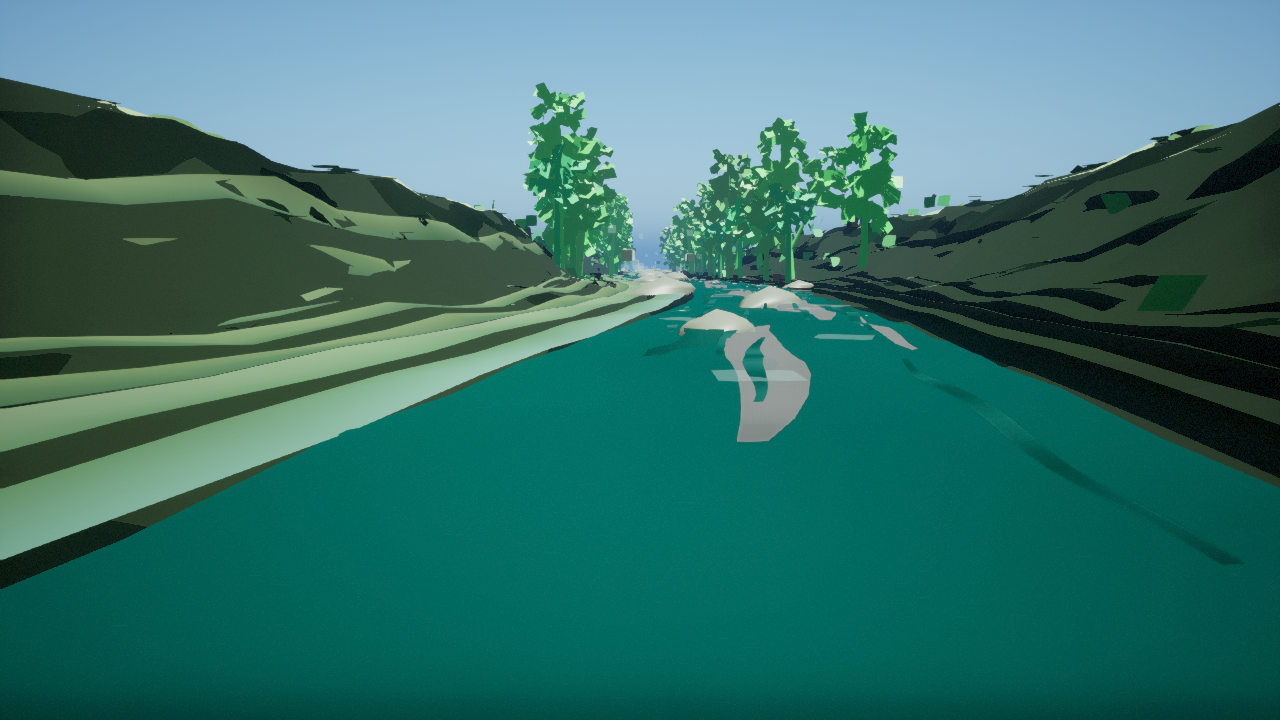
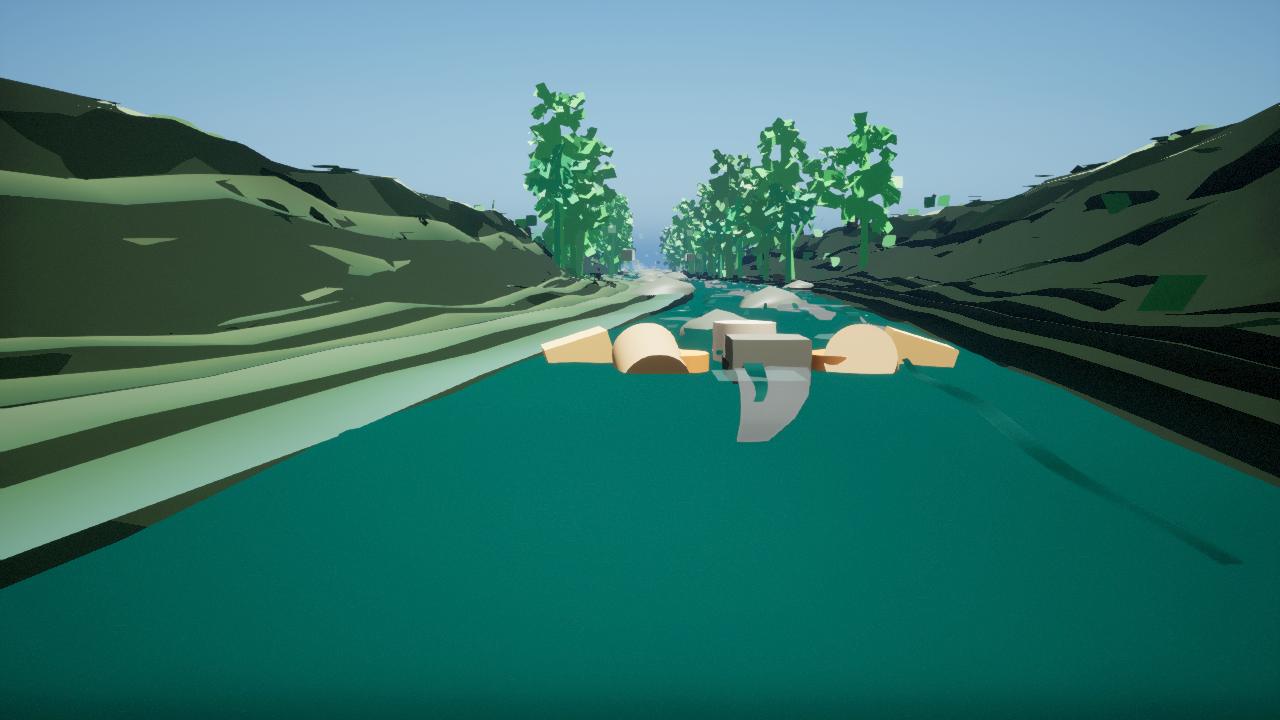
Add guide-seat raft foreground previews

Changed region(s): [[0.4062, 0.4278, 0.75, 0.5194]]

diff --git a/unreal/Plugins/RaftSim/Source/RaftSimEditor/Private/RaftSimEditorModule.cpp b/unreal/Plugins/RaftSim/Source/RaftSimEditor/Private/RaftSimEditorModule.cpp
@@ -287,7 +287,7 @@ TArray<FRaftSimEnvironmentPreviewSpec> GetEnvironmentPreviewSpecs()
     SouthFork.ElevationSample =
         TEXT("physics/data/real_world/south_fork_american_chili_bar/terrain/production_import_pilot/3dep_tiles");
     SouthFork.SourceDrapeDescription =
-        TEXT("stitched South Fork production-import pilot source drape generated from four official USDA/APFO NAIP 2048px tiles, plus stitched USGS 3DEP pilot DEM relief and a review-gated 2017px heightfield candidate sampled into bank and valley preview geometry; pilot source water/vegetation masks are sampled into terrain color, source-aware bank breakup patches, biome-specific deadfall/log/grass/root ecology props, first-party biome foliage silhouette cards, lit water variation, flow-band depth texture ribbons, flow-aware surface chop/turbidity patches, deterministic wet-rock, talus, foliage, understory, mask-aware ground-cover cards, and river-specific atmospheric backdrop cards; all pilot derivatives remain review-gated until metadata review, mosaic/clip, hydrologic conditioning, channel burning, masks, and guide/geospatial approval pass; rocks, foliage, water, foam, raft, and lighting still include first-party procedural proxy layers");
+        TEXT("stitched South Fork production-import pilot source drape generated from four official USDA/APFO NAIP 2048px tiles, plus stitched USGS 3DEP pilot DEM relief and a review-gated 2017px heightfield candidate sampled into bank and valley preview geometry; pilot source water/vegetation masks are sampled into terrain color, source-aware bank breakup patches, biome-specific deadfall/log/grass/root ecology props, first-party biome foliage silhouette cards, lit water variation, flow-band depth texture ribbons, flow-aware surface chop/turbidity patches, deterministic wet-rock, talus, foliage, understory, mask-aware ground-cover cards, guide-seat raft/oar foreground proxies, and river-specific atmospheric backdrop cards; all pilot derivatives remain review-gated until metadata review, mosaic/clip, hydrologic conditioning, channel burning, masks, and guide/geospatial approval pass; rocks, foliage, water, foam, raft, and lighting still include first-party procedural proxy layers");
     SouthFork.FlowBandId = TEXT("median_runnable");
     SouthFork.FlowBandDisplayName = TEXT("Median Runnable / Summer Commercial");
     SouthFork.FlowBandSource = TEXT("physics/data/real_world/south_fork_american_chili_bar/flow_presets.json");
@@ -327,7 +327,7 @@ TArray<FRaftSimEnvironmentPreviewSpec> GetEnvironmentPreviewSpecs()
     Colorado.ElevationSample =
         TEXT("physics/data/real_world/colorado_river_grand_canyon_rowing/terrain/production_import_pilot/3dep_tiles");
     Colorado.SourceDrapeDescription =
-        TEXT("stitched Colorado/Lees Ferry production-import pilot source drape generated from four official USDA/APFO NAIP 2048px tiles, plus stitched USGS 3DEP pilot DEM relief and a review-gated 2017px heightfield candidate sampled into canyon bank preview geometry; pilot source water/vegetation masks are sampled into terrain color, source-aware bank breakup patches, biome-specific sparse deadfall/grass/root ecology props, first-party sparse desert scrub silhouettes, lit water variation, flow-band depth texture ribbons, flow-aware surface chop/turbidity patches, deterministic wet-rock, talus, sparse scrub, boulder placement, mask-aware canyon ground-cover cards, and river-specific atmospheric backdrop cards; all pilot derivatives remain review-gated until metadata review, mosaic/clip, river-mile stationing, hydrologic conditioning, release-aware masks, and guide/oarsman approval pass; rocks, foliage, water, foam, raft, and lighting still include first-party procedural proxy layers");
+        TEXT("stitched Colorado/Lees Ferry production-import pilot source drape generated from four official USDA/APFO NAIP 2048px tiles, plus stitched USGS 3DEP pilot DEM relief and a review-gated 2017px heightfield candidate sampled into canyon bank preview geometry; pilot source water/vegetation masks are sampled into terrain color, source-aware bank breakup patches, biome-specific sparse deadfall/grass/root ecology props, first-party sparse desert scrub silhouettes, lit water variation, flow-band depth texture ribbons, flow-aware surface chop/turbidity patches, deterministic wet-rock, talus, sparse scrub, boulder placement, mask-aware canyon ground-cover cards, guide-seat raft/oar foreground proxies, and river-specific atmospheric backdrop cards; all pilot derivatives remain review-gated until metadata review, mosaic/clip, river-mile stationing, hydrologic conditioning, release-aware masks, and guide/oarsman approval pass; rocks, foliage, water, foam, raft, and lighting still include first-party procedural proxy layers");
     Colorado.FlowBandId = TEXT("moderate_release_planning");
     Colorado.FlowBandDisplayName = TEXT("Moderate Release Planning");
     Colorado.FlowBandSource = TEXT("physics/data/real_world/colorado_river_grand_canyon_rowing/flow_presets.json");
@@ -373,7 +373,7 @@ TArray<FRaftSimEnvironmentPreviewSpec> GetEnvironmentPreviewSpecs()
     Pacuare.ElevationSample =
         TEXT("physics/data/real_world/pacuare_river_costa_rica/terrain/copernicus_dem_glo30_N09_W084.tif; physics/data/real_world/pacuare_river_costa_rica/terrain/copernicus_dem_glo30_N10_W084.tif");
     Pacuare.SourceDrapeDescription =
-        TEXT("review-gated Pacuare production-import derivative placeholders generated from the selected NASA GIBS MODIS/Terra true-color seed and Copernicus DEM GLO-30 relief, normalized into a 4096px source drape, 2048px DEM relief, 2017px heightfield candidate, and 2048px water/vegetation masks; these remain coarse/cloudy proxy inputs until higher-resolution cloud-screened imagery, local hydrology/hydrography, protected-area review, and guide/outfitter validation are attached; first-party procedural rainforest leaf-litter, wet-rock, talus, mist, source-aware bank breakup patches, biome-specific deadfall/log/grass/root ecology props, rainforest canopy/vine silhouette cards, waterfall curtain/plunge-mist proxy layers, lit water variation, flow-band depth texture ribbons, flow-aware surface chop/turbidity patches, dense mask-aware ground-cover/canopy cards, and humid atmospheric backdrop cards remain rights-safe proxy dressing; rocks, foliage, water, foam, raft, and lighting still include first-party procedural proxy layers");
+        TEXT("review-gated Pacuare production-import derivative placeholders generated from the selected NASA GIBS MODIS/Terra true-color seed and Copernicus DEM GLO-30 relief, normalized into a 4096px source drape, 2048px DEM relief, 2017px heightfield candidate, and 2048px water/vegetation masks; these remain coarse/cloudy proxy inputs until higher-resolution cloud-screened imagery, local hydrology/hydrography, protected-area review, and guide/outfitter validation are attached; first-party procedural rainforest leaf-litter, wet-rock, talus, mist, source-aware bank breakup patches, biome-specific deadfall/log/grass/root ecology props, rainforest canopy/vine silhouette cards, waterfall curtain/plunge-mist proxy layers, lit water variation, flow-band depth texture ribbons, flow-aware surface chop/turbidity patches, dense mask-aware ground-cover/canopy cards, guide-seat raft/oar foreground proxies, and humid atmospheric backdrop cards remain rights-safe proxy dressing; rocks, foliage, water, foam, raft, and lighting still include first-party procedural proxy layers");
     Pacuare.FlowBandId = TEXT("rainfed_runnable_planning");
     Pacuare.FlowBandDisplayName = TEXT("Rain-Fed Runnable Planning");
     Pacuare.FlowBandSource = TEXT("physics/data/real_world/pacuare_river_costa_rica/flow_presets.json");
@@ -3211,37 +3211,80 @@ void AddPreviewRaftForeground(UWorld* World, const FRaftSimEnvironmentPreviewSpe
         }
     };
 
-    const float BaseX = -4920.0f;
+    const float BaseX = -4100.0f;
     const float CenterY = GetPreviewRiverCenterY(Spec, BaseX);
-    const float Z = 30.0f;
+    const float Z = -10.0f;
+    const FLinearColor TubeColor = FMath::Lerp(Spec.RaftColor, FLinearColor(0.95f, 0.60f, 0.18f), 0.24f);
+    const FLinearColor TubeShadowColor = ScalePreviewColor(TubeColor, 0.62f);
+    const FLinearColor FrameColor = Spec.bDesertCanyon ? FLinearColor(0.12f, 0.095f, 0.065f) : FLinearColor(0.065f, 0.075f, 0.058f);
+    const FLinearColor OarShaftColor = Spec.bDesertCanyon ? FLinearColor(0.44f, 0.31f, 0.16f) : FLinearColor(0.50f, 0.33f, 0.17f);
+    const FLinearColor OarBladeColor = Spec.bDesertCanyon ? FLinearColor(0.76f, 0.68f, 0.47f) : FLinearColor(0.86f, 0.52f, 0.22f);
+    const FLinearColor BowLineColor = FMath::Lerp(FLinearColor(0.78f, 0.72f, 0.58f), TubeColor, 0.18f);
+
     AddRaftProxyPart(
         CylinderMesh,
         FString::Printf(TEXT("RaftSim_ForegroundRaft_LeftTube_%s"), *Spec.RiverId),
-        FVector(BaseX + 180.0f, CenterY - 92.0f, Z),
+        FVector(BaseX + 40.0f, CenterY - 118.0f, Z),
         FRotator(0.0f, 90.0f, 0.0f),
-        FVector(0.38f, 0.38f, 2.9f),
-        Spec.RaftColor);
+        FVector(0.20f, 0.20f, 1.62f),
+        TubeColor);
     AddRaftProxyPart(
         CylinderMesh,
         FString::Printf(TEXT("RaftSim_ForegroundRaft_RightTube_%s"), *Spec.RiverId),
-        FVector(BaseX + 180.0f, CenterY + 92.0f, Z),
+        FVector(BaseX + 40.0f, CenterY + 118.0f, Z),
         FRotator(0.0f, 90.0f, 0.0f),
-        FVector(0.38f, 0.38f, 2.9f),
-        Spec.RaftColor);
+        FVector(0.20f, 0.20f, 1.62f),
+        TubeShadowColor);
     AddRaftProxyPart(
         CylinderMesh,
         FString::Printf(TEXT("RaftSim_ForegroundRaft_Bow_%s"), *Spec.RiverId),
-        FVector(BaseX + 470.0f, CenterY, Z + 3.0f),
+        FVector(BaseX + 235.0f, CenterY, Z + 2.0f),
         FRotator(90.0f, 0.0f, 0.0f),
-        FVector(0.36f, 0.36f, 1.9f),
-        Spec.RaftColor);
+        FVector(0.18f, 0.18f, 1.38f),
+        TubeColor);
     AddRaftProxyPart(
         CubeMesh,
         FString::Printf(TEXT("RaftSim_ForegroundRaft_Floor_%s"), *Spec.RiverId),
-        FVector(BaseX + 92.0f, CenterY, 11.0f),
+        FVector(BaseX - 18.0f, CenterY, -12.0f),
         FRotator::ZeroRotator,
-        FVector(1.35f, 0.42f, 0.04f),
-        FLinearColor(0.08f, 0.085f, 0.075f));
+        FVector(0.66f, 0.36f, 0.022f),
+        FrameColor);
+    AddRaftProxyPart(
+        CubeMesh,
+        FString::Printf(TEXT("RaftSim_ForegroundRaft_FrameBar_%s"), *Spec.RiverId),
+        FVector(BaseX - 62.0f, CenterY, 22.0f),
+        FRotator::ZeroRotator,
+        FVector(0.045f, 0.84f, 0.018f),
+        FLinearColor(0.18f, 0.18f, 0.15f));
+
+    const float OarLengthScale = Spec.bDesertCanyon ? 2.05f : 1.78f;
+    const float OarBladeOffset = Spec.bDesertCanyon ? 300.0f : 260.0f;
+    for (int32 OarIndex = 0; OarIndex < 2; ++OarIndex)
+    {
+        const float Side = (OarIndex == 0) ? -1.0f : 1.0f;
+        AddRaftProxyPart(
+            CylinderMesh,
+            FString::Printf(TEXT("RaftSim_ForegroundRaft_OarShaft_%d_%s"), OarIndex, *Spec.RiverId),
+            FVector(BaseX + 28.0f, CenterY + Side * 154.0f, 18.0f + 2.0f * static_cast<float>(OarIndex)),
+            FRotator(Side > 0.0f ? 2.5f : -2.5f, 94.0f + Side * 15.0f, Side * 68.0f),
+            FVector(0.023f, 0.023f, OarLengthScale),
+            OarShaftColor);
+        AddRaftProxyPart(
+            CubeMesh,
+            FString::Printf(TEXT("RaftSim_ForegroundRaft_OarBlade_%d_%s"), OarIndex, *Spec.RiverId),
+            FVector(BaseX + 138.0f, CenterY + Side * OarBladeOffset, 6.0f),
+            FRotator(0.0f, 10.0f * Side, Side > 0.0f ? 17.0f : -17.0f),
+            FVector(0.12f, 0.30f, 0.014f),
+            OarBladeColor);
+    }
+
+    AddRaftProxyPart(
+        CylinderMesh,
+        FString::Printf(TEXT("RaftSim_ForegroundRaft_BowLine_%s"), *Spec.RiverId),
+        FVector(BaseX + 172.0f, CenterY, 26.0f),
+        FRotator(0.0f, 90.0f, 0.0f),
+        FVector(0.012f, 0.012f, 0.82f),
+        BowLineColor);
 }
 
 void AddPreviewLightRig(UWorld* World, const FRaftSimEnvironmentPreviewSpec& Spec)
@@ -3828,6 +3871,7 @@ bool BuildPreviewMapForSpec(const FRaftSimEnvironmentPreviewSpec& Spec, FString&
         }
     }
 
+    AddPreviewRaftForeground(World, Spec, CubeMesh, CylinderMesh);
     AddPreviewCameraAndStart(World, Spec);
     return SavePreviewWorld(World, Spec.MapPackagePath, OutSummary);
 }
@@ -4868,7 +4912,7 @@ bool FRaftSimEditorModule::CapturePhotorealEnvironmentPreviews(FString& OutSumma
             TEXT("RaftSim_GuideSeat_DownstreamCaptureCamera"),
             TEXT("guide_seat_downstream"),
             TEXT("guide-seat downstream warm-up"),
-            true,
+            false,
             OutSummary);
         const bool bGuideSeatCaptured = CapturePreviewImageForSpec(
             Spec,
@@ -4877,7 +4921,7 @@ bool FRaftSimEditorModule::CapturePhotorealEnvironmentPreviews(FString& OutSumma
             TEXT("RaftSim_GuideSeat_DownstreamCaptureCamera"),
             TEXT("guide_seat_downstream"),
             TEXT("guide-seat downstream"),
-            true,
+            false,
             OutSummary);
         const bool bRiverEyeCaptured = CapturePreviewImageForSpec(
             Spec,

diff --git a/docs/photoreal-river-environment-production-plan.md b/docs/photoreal-river-environment-production-plan.md
@@ -98,7 +98,7 @@ Initial source slice:
 - First review-gated source water/vegetation mask previews now exist for all three active drapes: South Fork and Colorado masks are derived from the 1024px USDA/APFO NAIP samples, and Pacuare masks are derived from the 1024px NASA GIBS/Copernicus source drape. The masks are sampled by Unreal terrain and source-drape coloring, but they remain deterministic preview masks until reviewed orthomosaics/satellite scenes, hydrography, bank polygons, cloud/shadow checks, and guide/geospatial approval are complete.
 - A first-party procedural detail pass now adds terrain-conforming canyon strata, rainforest/foothill leaf-litter bands, wet-rock accents, and deterministic talus/pebble bars for all three preview maps. These layers are rights-safe proxy dressing generated from code and engine primitives; they must be replaced or promoted only after production asset, material, and guide-review gates pass.
 - The Unreal preview generator now samples each active aerial/source drape directly into higher-density terrain vertex colors and softens the separate drape overlay, reducing hard rectangular patchwork in the review captures while keeping the inputs review-gated. The overlay is now further muted in the generated maps, and deterministic boulder-contact foam laces tie source-aware rocks into the current without pretending to be production whitewater simulation.
-- The river ribbon mesh keeps `M_RaftSim_VertexColorWaterPreview` active, a first-party procedural lit vertex-color water material with muted shallow/deep tinting and subtle along-flow variation. Direct reuse of installed Unreal Water/WaterAdvanced plugin materials was evaluated and rejected for this generated ProceduralMeshComponent ribbon after producing near-black downstream captures; `water_material_candidate_review.json` records that decision and keeps future WaterBody/WaterMesh integration as a separate validation task. Crude foreground raft proxies are disabled in generated preview maps and hidden in capture automation, preview cameras use fixed manual exposure, and capture automation performs a warm-up render before pixel readback so water review is not polluted by placeholder geometry, exposure shifts, or first-frame material warm-up artifacts until production raft art is ready. This improves the current preview screenshots but does not replace the future production water shader, reflections, solver-driven surface detail, spray, mist, or foam.
+- The river ribbon mesh keeps `M_RaftSim_VertexColorWaterPreview` active, a first-party procedural lit vertex-color water material with muted shallow/deep tinting and subtle along-flow variation. Direct reuse of installed Unreal Water/WaterAdvanced plugin materials was evaluated and rejected for this generated ProceduralMeshComponent ribbon after producing near-black downstream captures; `water_material_candidate_review.json` records that decision and keeps future WaterBody/WaterMesh integration as a separate validation task. The generated preview maps now include low-footprint first-party guide-seat raft and oar foreground proxies for player-view context, while river-eye captures hide those foreground actors so terrain, water, and corridor quality can still be reviewed cleanly. Preview cameras use fixed manual exposure, and capture automation performs a warm-up render before pixel readback so water review is not polluted by exposure shifts or first-frame material warm-up artifacts. This improves the current preview screenshots but does not replace the future production water shader, reflections, solver-driven surface detail, spray, mist, foam, or approved raft/oar foreground art.
 - The preview generator now adds deterministic mask-aware ground-cover and canopy-card actors along the banks for all three rivers. These source-mask-biased first-party cards add riparian, canyon scrub, and rainforest texture without importing third-party art, but they remain proxy dressing until biome-specific foliage assets, instancing budgets, and guide-reviewed sightline cutouts are complete.
 - The UE 5.8 photoreal preview automation scopes `Editor.CheckForWorldGCLeaksAreFatal=0` only around generated-map/capture batches. This prevents commandlet-style startup `Untitled` world cleanup diagnostics from crashing the run while still logging the diagnostics and restoring the editor CVar afterward.
 - `river_flow_visual_bands.json` now records the preview-only flow-band visual contract for South Fork, Colorado, and Pacuare. The active generated previews render the South Fork `median_runnable`, Colorado `moderate_release_planning`, and Pacuare `rainfed_runnable_planning` bands by adjusting river width, water level, foam scale, wet-bank width, and current-cue density; regenerated capture manifests must record the selected band and visual parameters. These are source-backed visual defaults, not solver authority or complete seasonal variant captures.

diff --git a/TODO.md b/TODO.md
@@ -949,6 +949,7 @@ This milestone turns the three runnable river targets into complete, reviewable,
 - [x] Replace rectangular preview foam marks with curved procedural foam tongues, wave highlights, and eddy-line ribbons that follow each river centerline, and compute normals on the wavy river ribbon mesh so water has more in-engine surface depth. This improves visual readability but remains placeholder VFX before production water materials, spray, mist, and foam simulation.
 - [x] Add subtle deterministic current-streak proxy ribbons to the generated Unreal river surfaces for South Fork, Colorado, and Pacuare, with refreshed guide-seat and river-eye captures. This reduces the single-flat-ribbon read slightly while keeping production water materials, reflections, spray, mist, foam, and solver-driven surface detail open.
 - [x] Add procedural vertex-color water gradients to the generated river ribbons for all three previews, backed by `M_RaftSim_VertexColorWaterPreview`, with cross-river shallow/deep tinting, subtle along-flow variation, fixed manual capture exposure, warm-up captures before pixel readback, and crude foreground raft proxies hidden/disabled for cleaner guide-seat water review until production raft art is ready. This improves the current screenshot read without replacing the future production water shader, reflections, solver-driven surface detail, foam, spray, or mist.
+- [x] Add first-party guide-seat raft and oar foreground proxies to the generated Unreal preview maps, with guide-seat captures showing a low-footprint player-view foreground and river-eye captures hiding the proxies for clean environment review. This adds reviewable gameplay context without closing the production-approved raft/oar art gate.
 - [x] Add deterministic vertex-color terrain variation and wet-bank/shoreline dressing to the generated Unreal preview maps, backed by `M_RaftSim_VertexColorPreview`, with refreshed guide-seat and river-eye captures for all three rivers. This improves source-aware bank readability, but the captures remain proxy evidence until production terrain materials, water shaders, wet rocks, and biome assets are imported or generated.
 - [x] Add a first-party procedural source-detail pass to the generated Unreal previews: terrain-conforming canyon strata, rainforest/foothill leaf-litter bands, wet-rock accents, and deterministic talus/pebble bars are generated from code and engine primitives for all three rivers. This is rights-safe proxy dressing, not production photogrammetry or licensed environment art.
 - [x] Replace primitive sphere/cylinder foliage in the generated previews with PCG sample tree and seedling meshes where available, keeping primitive foliage as a fallback and moving the first tree instances downstream so guide-seat captures are not clipped. This gives South Fork and Pacuare more believable corridor silhouettes, while production biome-specific foliage assets remain required.
